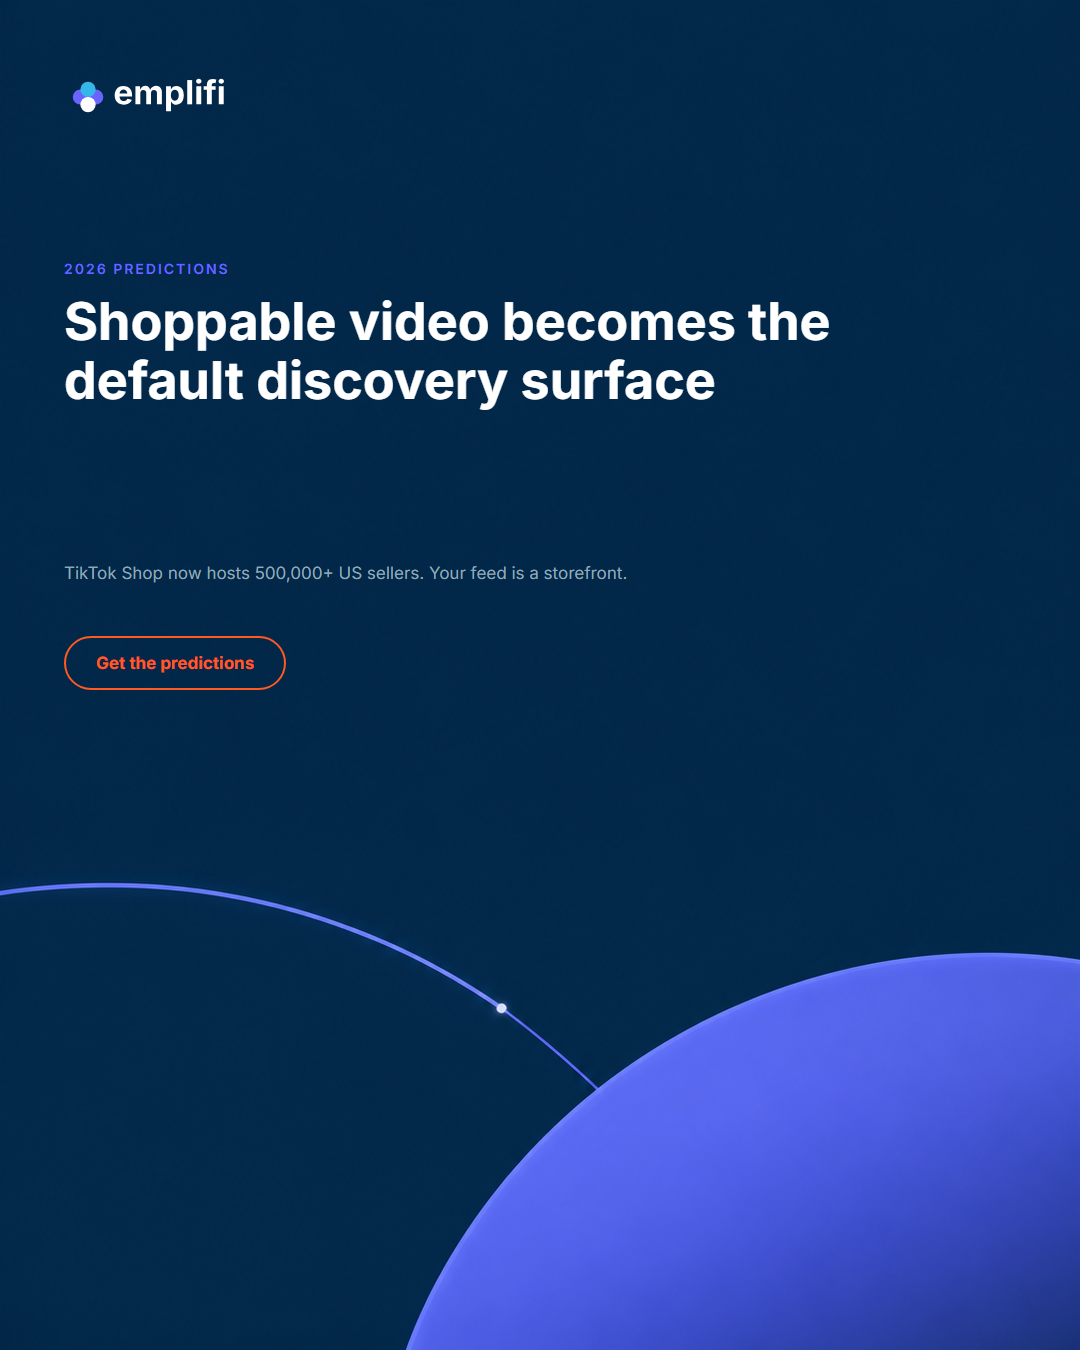
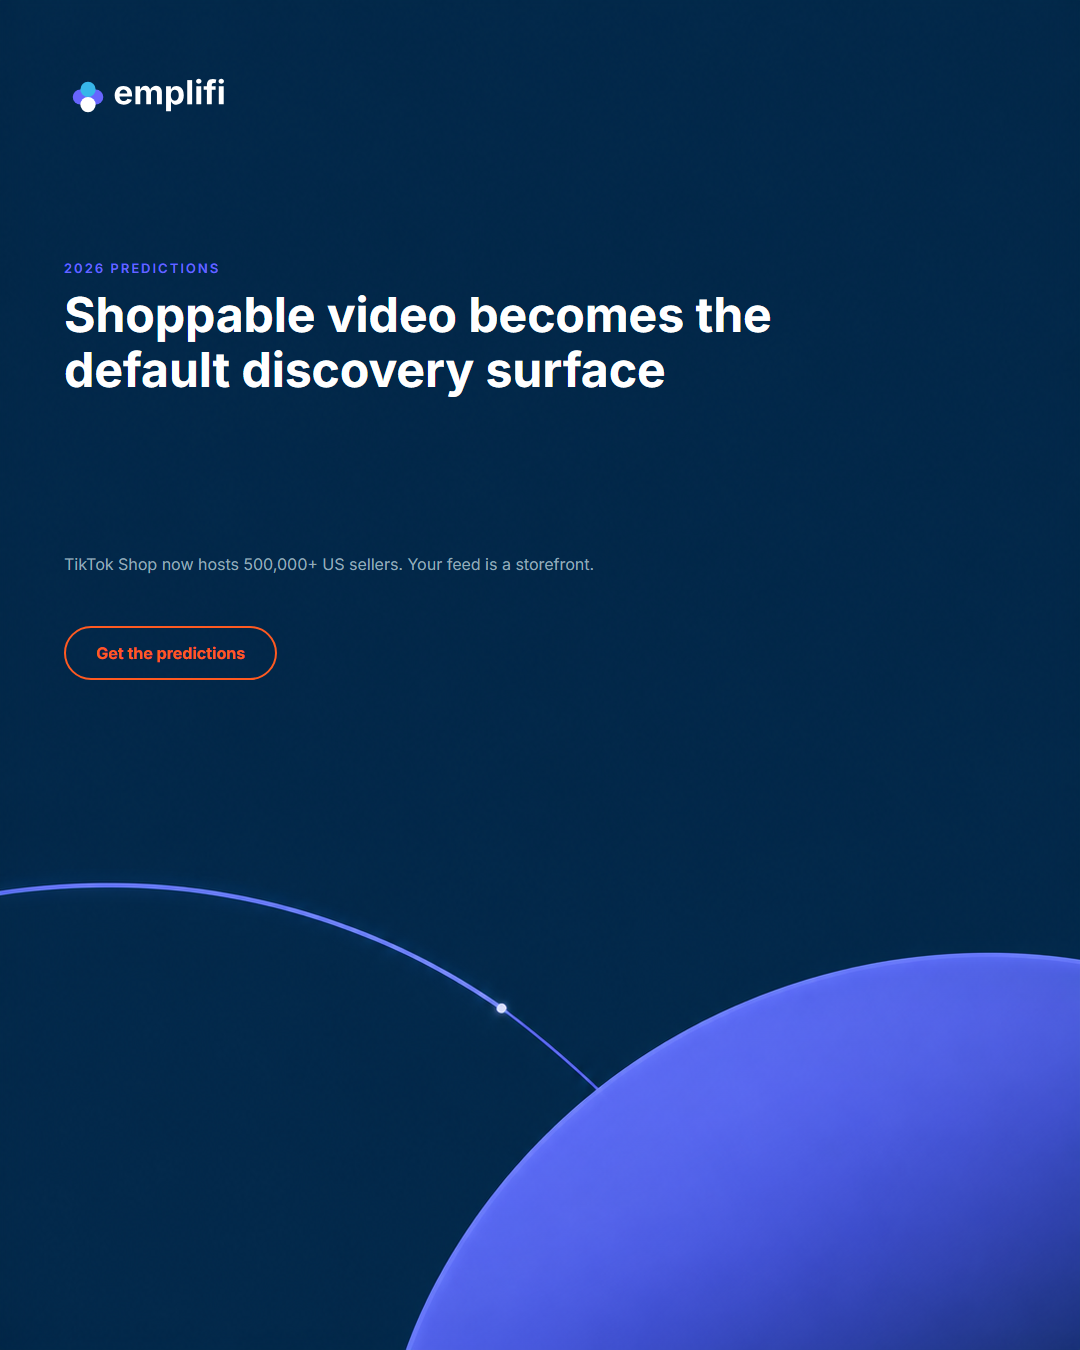
Phase 0 - skipped the header rule which was conflicting for kahua, priority given to Applying it section of design.md

Changed region(s): [[0.0611, 0.1867, 0.7639, 0.3111], [0.0611, 0.4044, 0.5806, 0.4356], [0.0611, 0.4667, 0.275, 0.5289]]

diff --git a/worker/sandbox_images/generation/phase0/kahua_1200x628/overlay.html b/worker/sandbox_images/generation/phase0/kahua_1200x628/overlay.html
@@ -12,7 +12,27 @@
      a variable photograph. Darkened toward ink here (#2E3B45) to stay
      legible while still reading as secondary to the headline. This is a
      per-render judgment call, not a token change - DESIGN.md's muted value
-     is untouched, this is a documented photographic-ground exception. -->
+     is untouched, this is a documented photographic-ground exception.
+
+     CORRECTED (2026-08-10), found during a full audit: this file also used
+     13px/40px/15px for eyebrow/headline/subhead - wrong on all three, and
+     the headline one is worse than a stray number: DESIGN.md's "Applying
+     it" section says explicitly, in these words, "An h1 is 48px on every
+     canvas. If the headline does not fit at 48, cut the copy; do not scale
+     the type." Scaling it to 40px to make it fit directly contradicts that
+     instruction. Separately: DESIGN.md's own "Type scale" table lists
+     "h1: 56px", which disagrees with the "Applying it" prose's 48px - a
+     genuine self-contradiction inside this one file, not a case of an
+     external cache disagreeing with DESIGN.md. Resolved in favor of the
+     "Applying it" value (48px): it's the more specific, operational
+     instruction (it comes with explicit fallback behavior - cut copy,
+     don't scale - which only makes sense if 48 is the real constraint),
+     whereas the table's 56 reads like a stale/unreviewed figure, the same
+     failure mode already seen in Emplifi's tokens.json. Fixed
+     eyebrow/subhead to the table's caption/body values (14px/17px, not
+     contradicted by any prose), fixed headline to 48px, and repositioned
+     everything to fit without overlap - copy was not cut because 48px did
+     fit once positions were adjusted. -->
 <html>
 <head>
 <style>
@@ -26,15 +46,15 @@
   .canvas { position: relative; width: 1200px; height: 628px; overflow: hidden; font-family: "Barlow", sans-serif; }
   .plate { position: absolute; inset: 0; width: 1200px; height: 628px; }
   .logo { position: absolute; left: 56px; top: 40px; width: 150px; height: auto; }
-  .eyebrow { position: absolute; left: 56px; top: 132px; width: 560px;
-    font-weight: 600; font-size: 13px; letter-spacing: 2px; text-transform: uppercase; color: #F26B21; }
-  .headline { position: absolute; left: 56px; top: 160px; width: 600px;
-    font-weight: 700; font-size: 40px; line-height: 1.1; color: #16202B; }
-  .subhead { position: absolute; left: 56px; top: 302px; width: 560px;
-    font-weight: 400; font-size: 15px; line-height: 1.5; color: #2E3B45; }
-  .cta { position: absolute; left: 56px; top: 366px; display: inline-flex; align-items: center;
+  .eyebrow { position: absolute; left: 56px; top: 128px; width: 560px;
+    font-weight: 600; font-size: 14px; letter-spacing: 2px; text-transform: uppercase; color: #F26B21; }
+  .headline { position: absolute; left: 56px; top: 156px; width: 600px;
+    font-weight: 700; font-size: 48px; line-height: 1.08; color: #16202B; }
+  .subhead { position: absolute; left: 56px; top: 380px; width: 560px;
+    font-weight: 400; font-size: 17px; line-height: 1.5; color: #2E3B45; }
+  .cta { position: absolute; left: 56px; top: 448px; display: inline-flex; align-items: center;
     padding: 12px 24px; border-radius: 4px;
-    font-weight: 600; font-size: 15px; color: #FFFFFF; background: #F26B21; }
+    font-weight: 600; font-size: 17px; color: #FFFFFF; background: #F26B21; }
 </style>
 </head>
 <body>

diff --git a/worker/sandbox_images/generation/phase0/emplifi_1080x1350/overlay.html b/worker/sandbox_images/generation/phase0/emplifi_1080x1350/overlay.html
@@ -2,7 +2,14 @@
 <!-- Same campaign/copy as emplifi_1080x1080. This plate's quiet zone is huge
      (almost the entire top two-thirds), so this layout can afford more
      generous vertical whitespace than the landscape version - a genuinely
-     different composition, not a stretch of either other size. -->
+     different composition, not a stretch of either other size.
+
+     CORRECTED (2026-08-10): this file originally used 14px/52px/17px for
+     eyebrow/headline/subhead, deviating from DESIGN.md's actual values
+     (13px/48px/16px) with no rule permitting it - found during a full
+     audit. There was no space constraint forcing this (this canvas has the
+     most free room of the three), so it was simply wrong. Fixed to the
+     exact DESIGN.md values. -->
 <html>
 <head>
 <style>
@@ -17,14 +24,14 @@
   .plate { position: absolute; inset: 0; width: 1080px; height: 1350px; }
   .logo { position: absolute; left: 64px; top: 72px; width: 170px; height: auto; }
   .eyebrow { position: absolute; left: 64px; top: 260px; width: 700px;
-    font-weight: 600; font-size: 14px; letter-spacing: 2px; text-transform: uppercase; color: #6765FE; }
-  .headline { position: absolute; left: 64px; top: 292px; width: 780px;
-    font-weight: 700; font-size: 52px; line-height: 1.14; color: #FFFFFF; }
-  .subhead { position: absolute; left: 64px; top: 560px; width: 660px;
-    font-weight: 400; font-size: 17px; line-height: 1.55; color: #94A9B8; }
-  .cta { position: absolute; left: 64px; top: 636px; display: inline-flex; align-items: center;
+    font-weight: 600; font-size: 13px; letter-spacing: 2px; text-transform: uppercase; color: #6765FE; }
+  .headline { position: absolute; left: 64px; top: 288px; width: 780px;
+    font-weight: 700; font-size: 48px; line-height: 1.14; color: #FFFFFF; }
+  .subhead { position: absolute; left: 64px; top: 552px; width: 660px;
+    font-weight: 400; font-size: 16px; line-height: 1.55; color: #94A9B8; }
+  .cta { position: absolute; left: 64px; top: 626px; display: inline-flex; align-items: center;
     padding: 15px 30px; border: 2px solid #FF5A21; border-radius: 999px;
-    font-weight: 700; font-size: 17px; color: #FF5A21; background: transparent; }
+    font-weight: 700; font-size: 16px; color: #FF5A21; background: transparent; }
 </style>
 </head>
 <body>

diff --git a/worker/sandbox_images/generation/phase0/emplifi_1200x628/overlay.html b/worker/sandbox_images/generation/phase0/emplifi_1200x628/overlay.html
@@ -2,7 +2,14 @@
 <!-- Same campaign/copy as emplifi_1080x1080 (one request, multiple canvases).
      Layout is its own judgment call for this aspect ratio, not a resize of
      the square version - compact vertical stack to fit a 628px-tall frame,
-     positioned in the plate's actual left-two-thirds quiet zone. -->
+     positioned in the plate's actual left-two-thirds quiet zone.
+
+     CORRECTED (2026-08-10): this file originally scaled the headline/subhead
+     down (40px/15px) to make them fit the shorter frame, deviating from
+     DESIGN.md's stated type scale (h1:48px, body:16px) with no rule
+     permitting that. Found during a full audit and fixed - sizes are locked
+     to DESIGN.md now, only the vertical positions were adjusted to fit the
+     larger headline within the frame. -->
 <html>
 <head>
 <style>
@@ -18,13 +25,13 @@
   .logo { position: absolute; left: 56px; top: 40px; width: 140px; height: auto; }
   .eyebrow { position: absolute; left: 56px; top: 116px; width: 600px;
     font-weight: 600; font-size: 13px; letter-spacing: 2px; text-transform: uppercase; color: #6765FE; }
-  .headline { position: absolute; left: 56px; top: 144px; width: 620px;
-    font-weight: 700; font-size: 40px; line-height: 1.12; color: #FFFFFF; }
-  .subhead { position: absolute; left: 56px; top: 292px; width: 560px;
-    font-weight: 400; font-size: 15px; line-height: 1.5; color: #94A9B8; }
-  .cta { position: absolute; left: 56px; top: 358px; display: inline-flex; align-items: center;
+  .headline { position: absolute; left: 56px; top: 132px; width: 620px;
+    font-weight: 700; font-size: 48px; line-height: 1.12; color: #FFFFFF; }
+  .subhead { position: absolute; left: 56px; top: 366px; width: 560px;
+    font-weight: 400; font-size: 16px; line-height: 1.5; color: #94A9B8; }
+  .cta { position: absolute; left: 56px; top: 432px; display: inline-flex; align-items: center;
     padding: 12px 24px; border: 2px solid #FF5A21; border-radius: 999px;
-    font-weight: 700; font-size: 15px; color: #FF5A21; background: transparent; }
+    font-weight: 700; font-size: 16px; color: #FF5A21; background: transparent; }
 </style>
 </head>
 <body>

diff --git a/worker/sandbox_images/generation/phase0/kahua_1080x1350/overlay.html b/worker/sandbox_images/generation/phase0/kahua_1080x1350/overlay.html
@@ -8,7 +8,19 @@
      the standard dark-ink kahua-logo.svg. Copy sits on the bottom concrete
      zone in white, since that ground reads medium-dark, not light - the
      opposite color choice from the square/landscape versions, made because
-     this render's actual tones are opposite theirs, not by default. -->
+     this render's actual tones are opposite theirs, not by default.
+
+     FINDING, documented on audit (2026-08-10, should have been called out
+     when this file was first built): the subhead here uses #E4E8EC, not
+     DESIGN.md's literal muted token (#6B7A88) - same underlying reason as
+     kahua_1200x628's documented exception (muted assumes a flat/light
+     surface; on this dark concrete ground, #6B7A88 would be nearly as
+     illegible as it was there). A light off-white keeps the subhead
+     reading as secondary to the white headline while staying legible on a
+     dark photograph. Confirmed audit found no numeric type-scale
+     violations in this file (eyebrow 14px, headline 48px, subhead 17px all
+     already matched DESIGN.md) - this comment only adds documentation for
+     an existing color choice, the rendered output is unchanged. -->
 <html>
 <head>
 <style>

diff --git a/worker/sandbox_images/generation/phase0/README.md b/worker/sandbox_images/generation/phase0/README.md
@@ -151,9 +151,66 @@ deliberately excluded as an unlicensable trademark, not because the
 pipeline failed to use them. Worth stating plainly rather than letting the
 render's quality imply more brand-fidelity than is honestly there.
 
+## Full type-scale compliance audit (2026-08-10)
+
+Prompted by a direct question ("are you using the elements from
+design-brain?"), did a from-scratch audit of every real render against its
+brand's exact stated numbers (palette hex, type scale, radius, CTA rules) -
+not a spot check, every eyebrow/headline/subhead/CTA in every file, read in
+full rather than grepped in fragments. Found real violations:
+
+- **`emplifi_1200x628`**: eyebrow/headline/subhead were 13/40/15px against a
+  stated 13/48/16px - headline and subhead wrong, no rule permitted the
+  deviation. Fixed and re-rendered; 48px headline fits the 628px frame
+  cleanly once repositioned.
+- **`emplifi_1080x1350`**: 14/52/17px against 13/48/16px - all three wrong,
+  and this canvas had the *most* free space of the three, so there wasn't
+  even a fit pressure excuse. Fixed and re-rendered.
+- **`kahua_1200x628`**: 13/40/15px against a resolved 14/48/17px (see below)
+  - the headline one is the serious case: Kahua's `DESIGN.md` states, in
+    these words, *"An h1 is 48px on every canvas. If the headline does not
+    fit at 48, cut the copy; do not scale the type."* Using 40px directly
+    contradicted an explicit instruction, not just a table value. Fixed and
+    re-rendered; 48px fits in two lines with no overlap, so copy did not
+    need cutting.
+- **`duolingo_1080x1080`**: eyebrow/subhead were 15/18px against this
+  brain's own stated 13/16px. Same mistake pattern, different brand. Fixed
+  and re-rendered.
+- **`kahua_1080x1080`** and **`kahua_1080x1350`**: audited clean - the
+  square version already matched every rule (including having the 48px
+  rule quoted in its own code comment), and the portrait version's numbers
+  were already correct; only added a missing documentation comment for an
+  existing, already-correct color choice.
+
+**New finding surfaced while resolving the Kahua violation: `DESIGN.md`
+self-contradicts, not just disagrees with an external cache.** Its "Type
+scale" table states `h1: 56px`; its "Applying it" prose states *"An h1 is
+48px on every canvas... do not scale the type."* Two sections of the same
+source-of-truth file disagree with each other - a different failure mode
+than Emplifi's DESIGN.md-vs-tokens.json drift, which was cross-file.
+Resolved in favor of the prose value (48px): it's the more specific,
+operational instruction - it comes with explicit fallback behavior ("cut
+the copy") that only makes sense if 48 is the real constraint - while the
+table's 56 reads like the same kind of stale, unreviewed figure Emplifi's
+tokens.json turned out to be. Applying it consistently, not cherry-picked
+per canvas.
+
+**Root cause, stated plainly:** when building the landscape/portrait
+versions of each brand, sizes were adjusted by eye for vertical fit instead
+of being re-derived from each brand's actual type scale every time, and in
+a few cases values were seemingly cross-contaminated between the two
+brands' scales (13 vs 14 caption, 16 vs 17 body). The fix going forward
+(relevant once this becomes real agent behavior in Step 3, not just my own
+manual process): resolve to a canvas's font sizes from `DESIGN.md` first,
+then solve the fit problem via positioning/line-count/copy-cutting - never
+by treating the type scale as a suggestion.
+
 ## Next
 
 1. Resolve the 728x90 question with the CEO before spending more on it.
 2. Get a second, independent look at all six real renders before calling
    Step 1's "20 ads per brand you'd defend" bar met - one pass of self-review
-   during building is not the same as a cold review after.
+   during building is not the same as a cold review after. This audit is a
+   good example of why: the type-scale violations survived one full "look
+   at it" pass each and were only caught by a targeted second pass against
+   the source document, not by general visual review.
